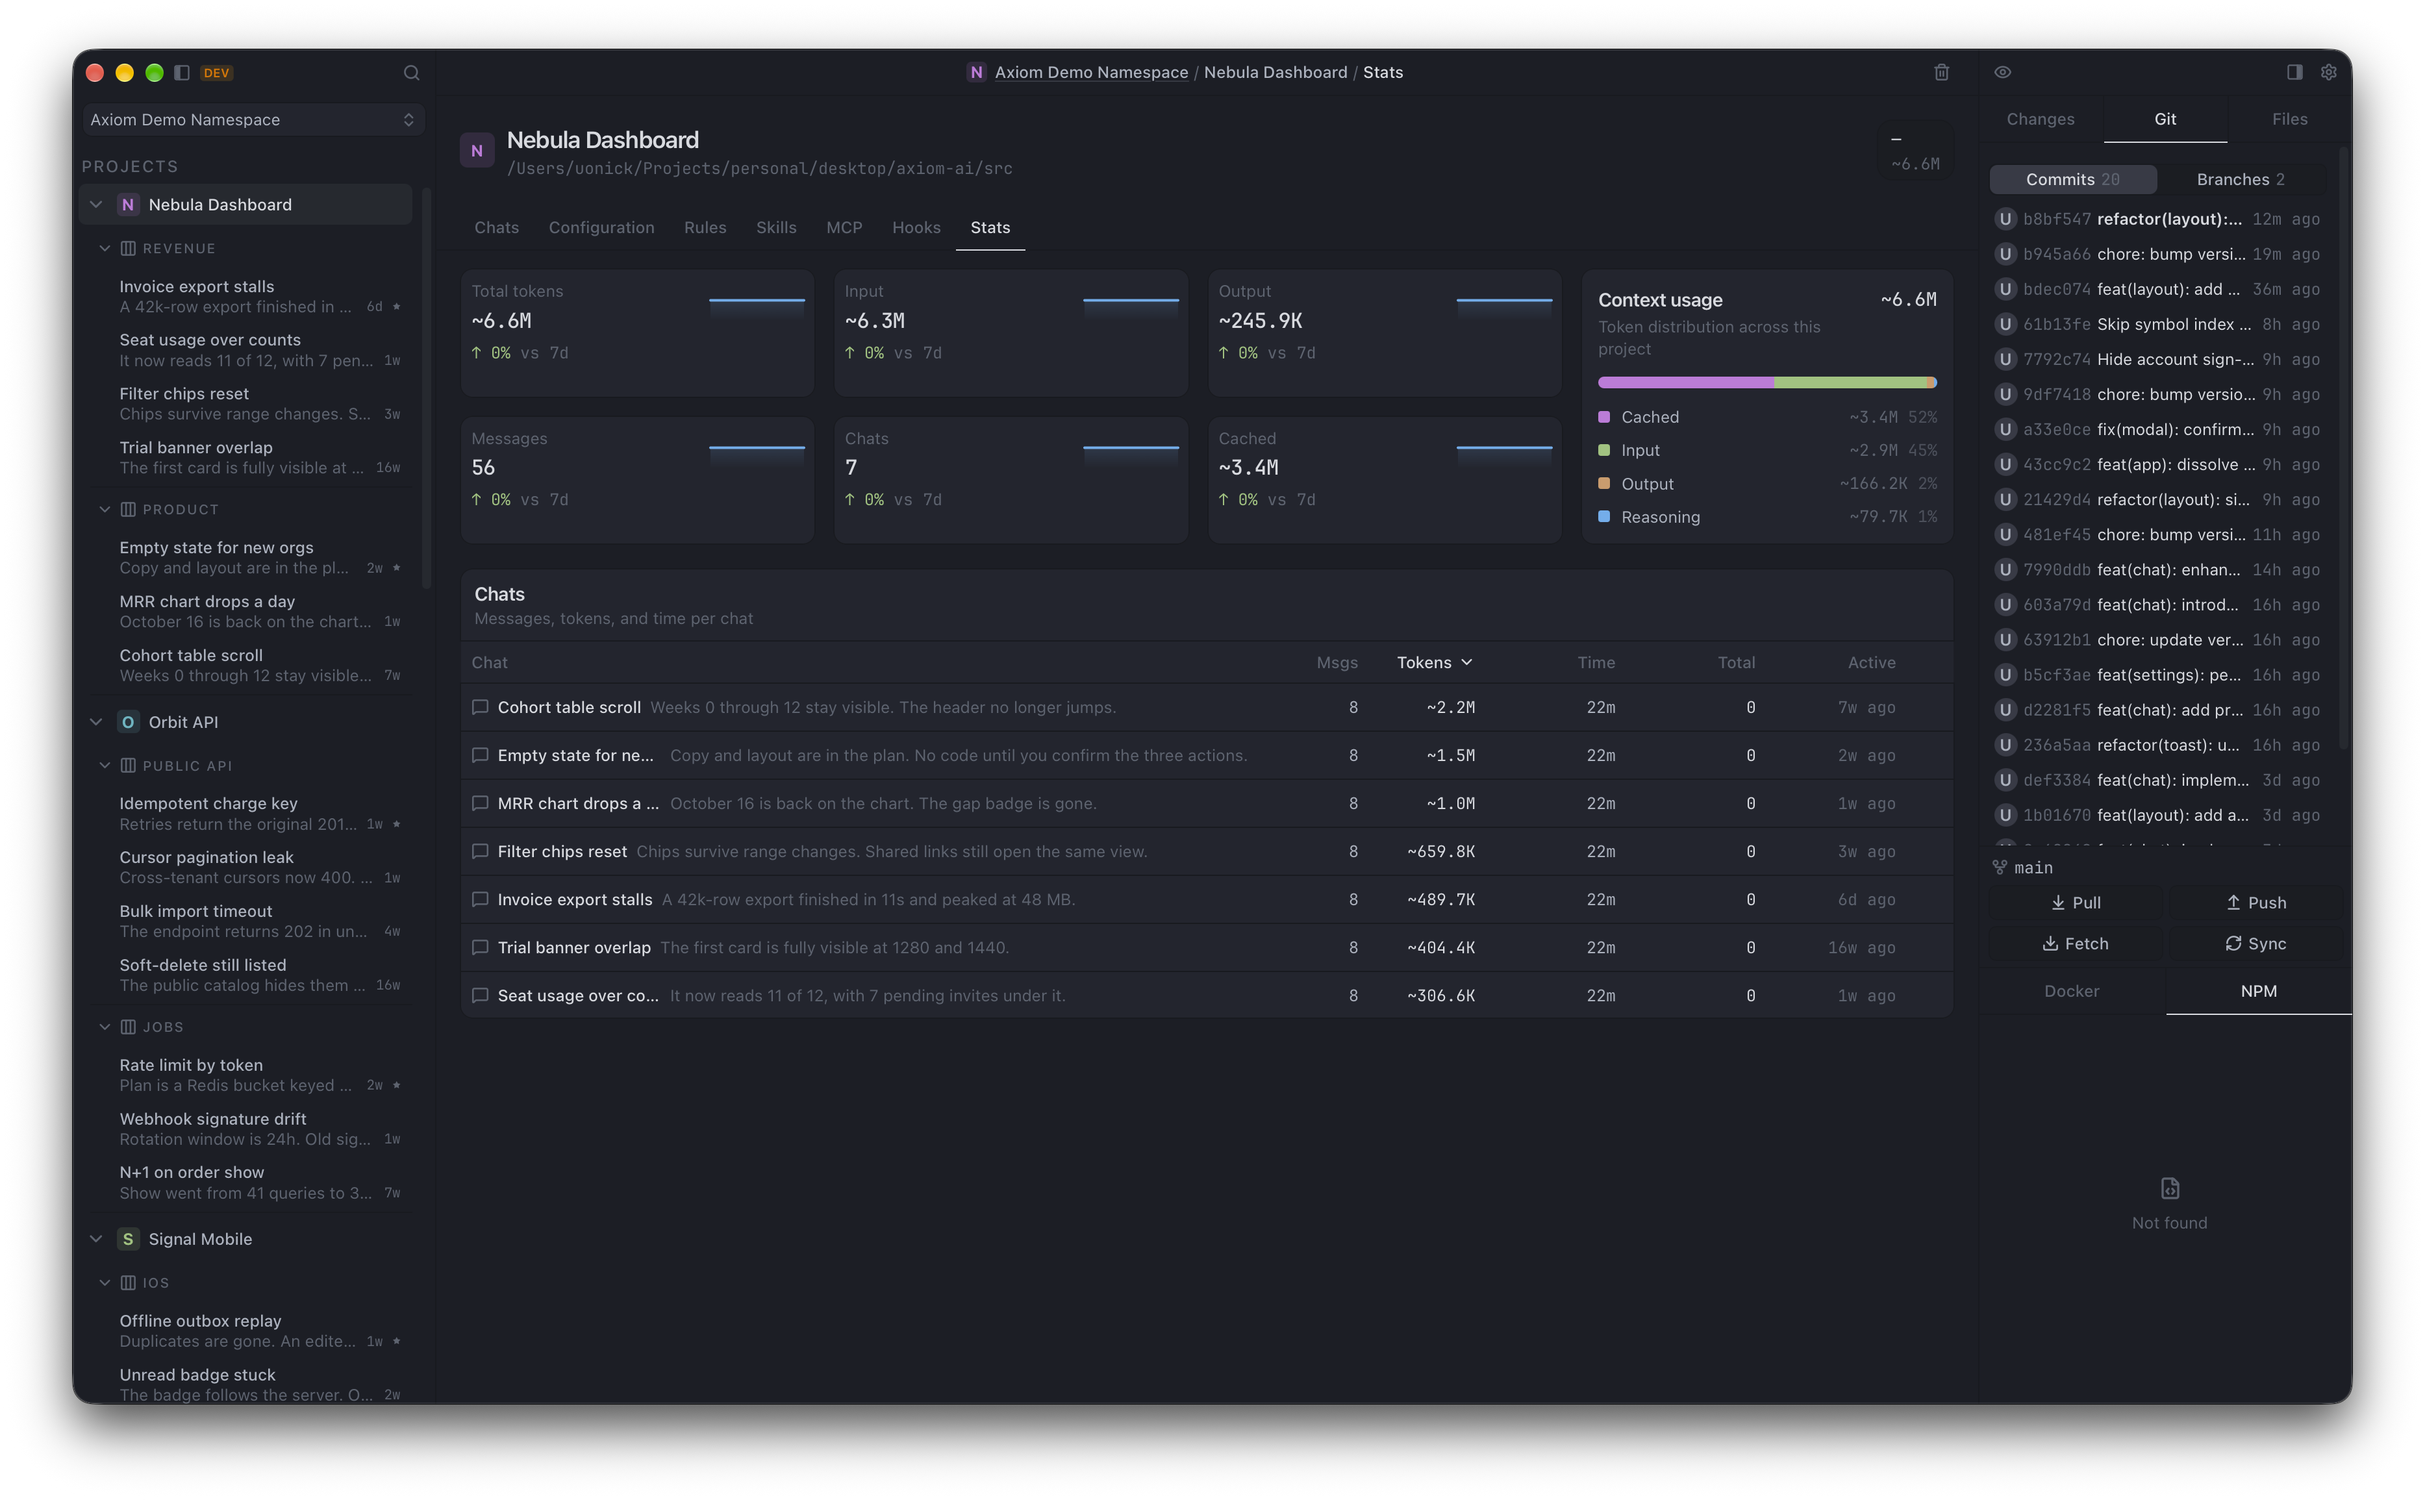
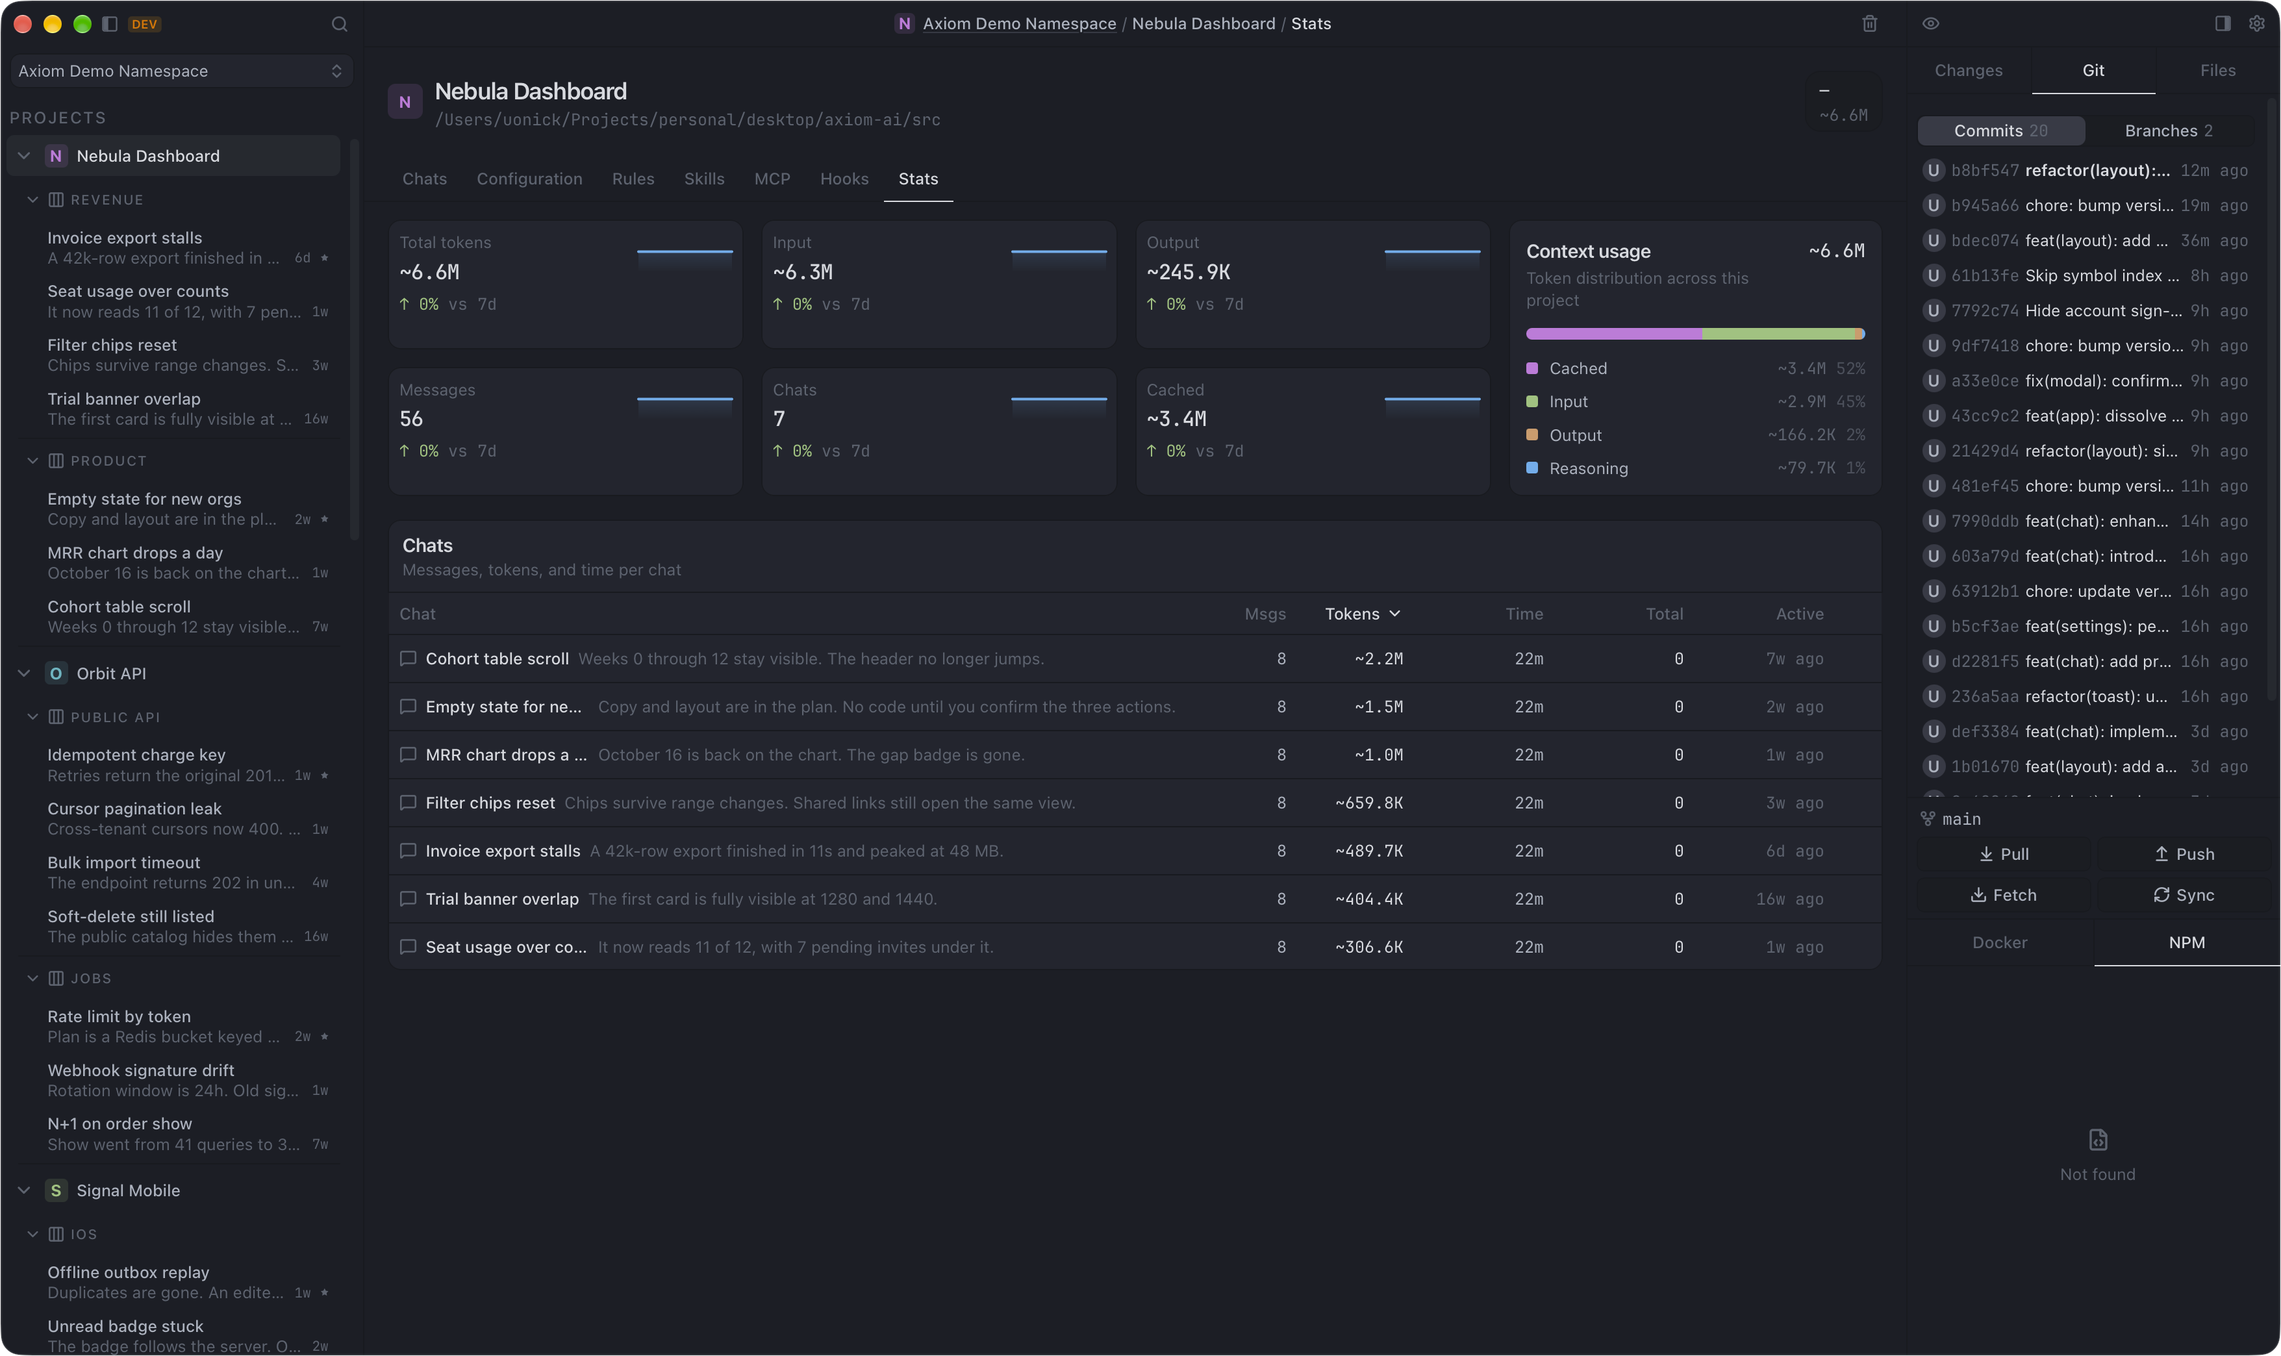
Update Button and HeroSection components, add hero-shot class to global styles: modify Button styles for better visual consistency, update HeroSection to include a new class for the screenshot image, and adjust image formats for improved performance.

diff --git a/src/styles/global.css b/src/styles/global.css
@@ -53,6 +53,10 @@
   display: inline-flex;
 }
 
+.hero-shot {
+  filter: drop-shadow(0 2px 6px rgb(15 23 42 / 0.1)) drop-shadow(0 18px 40px rgb(15 23 42 / 0.16));
+}
+
 .below-fold {
   content-visibility: auto;
   contain-intrinsic-size: auto 40rem;
